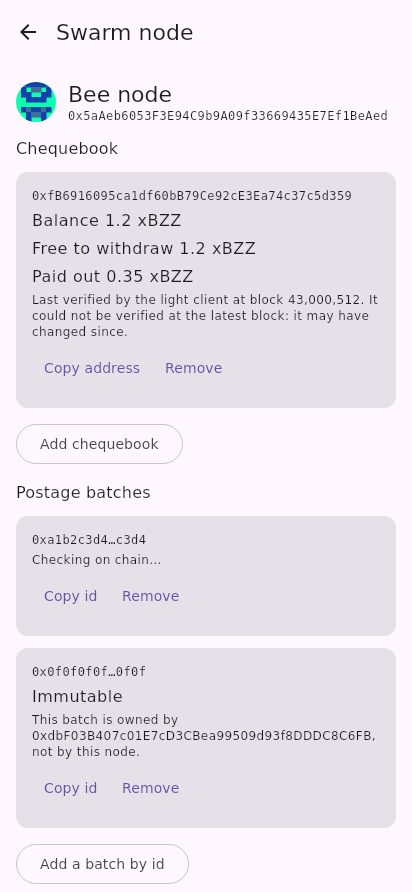
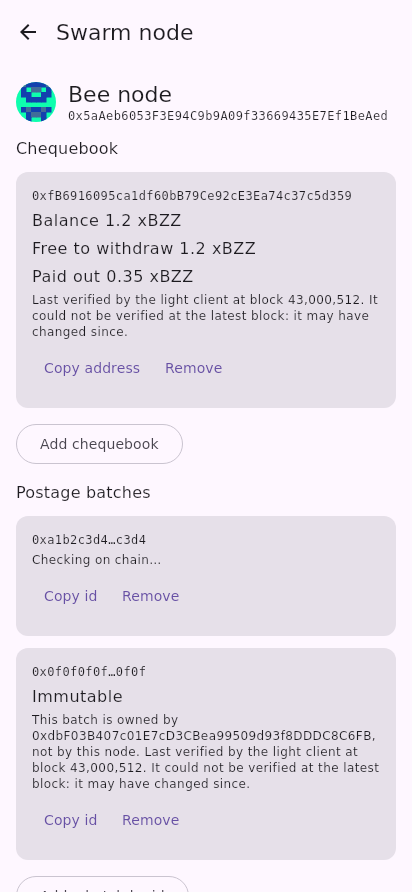
Screenshots: 2 added, 1 changed, 0 removed
Rendered by the Screenshots workflow from ac8f1dcc1cf83951198d37baa8c7cff035d3f47f. Every other screen draws the same pixels.

Renderer: ubuntu26 20261116.202.1, openjdk version "21.0.13" 2026-10-20 LTS

Changed region(s): [[0.0583, 0.8173, 0.7573, 1.0], [0.7573, 0.8173, 0.9029, 0.8778]]

diff --git a/docs/screenshots/index.html b/docs/screenshots/index.html
@@ -1027,7 +1027,7 @@ figcaption { font: .75rem/1.3 monospace; text-align: center; word-break: break-w
 </div>
 </section>
 <section id="swarm">
-<h2>Swarm node <small>swarm/ · 10 states</small></h2>
+<h2>Swarm node <small>swarm/ · 12 states</small></h2>
 <div class="shots">
 <figure style="width: 206px"><a href="swarm/node.png"><img src="swarm/node.png" loading="lazy" alt="node"></a><figcaption>node</figcaption></figure>
 <figure style="width: 206px"><a href="swarm/node-dark.png"><img src="swarm/node-dark.png" loading="lazy" alt="node-dark"></a><figcaption>node-dark</figcaption></figure>
@@ -1037,6 +1037,8 @@ figcaption { font: .75rem/1.3 monospace; text-align: center; word-break: break-w
 <figure style="width: 206px"><a href="swarm/add-chequebook.png"><img src="swarm/add-chequebook.png" loading="lazy" alt="add-chequebook"></a><figcaption>add-chequebook</figcaption></figure>
 <figure style="width: 206px"><a href="swarm/add-checking.png"><img src="swarm/add-checking.png" loading="lazy" alt="add-checking"></a><figcaption>add-checking</figcaption></figure>
 <figure style="width: 206px"><a href="swarm/add-refused.png"><img src="swarm/add-refused.png" loading="lazy" alt="add-refused"></a><figcaption>add-refused</figcaption></figure>
+<figure style="width: 206px"><a href="swarm/network-off.png"><img src="swarm/network-off.png" loading="lazy" alt="network-off"></a><figcaption>network-off</figcaption></figure>
+<figure style="width: 206px"><a href="swarm/not-removed.png"><img src="swarm/not-removed.png" loading="lazy" alt="not-removed"></a><figcaption>not-removed</figcaption></figure>
 <figure style="width: 206px"><a href="swarm/loading.png"><img src="swarm/loading.png" loading="lazy" alt="loading"></a><figcaption>loading</figcaption></figure>
 <figure style="width: 206px"><a href="swarm/unavailable.png"><img src="swarm/unavailable.png" loading="lazy" alt="unavailable"></a><figcaption>unavailable</figcaption></figure>
 </div>

diff --git a/docs/screenshots/README.md b/docs/screenshots/README.md
@@ -63,7 +63,7 @@ If the folder grows too much, there are two levers, both the owner's. Deleting t
 | [Transfer status (simple mode)](#simple-transfer-status) | `simple-transfer-status/` | 13 |
 | [Watch address (simple mode)](#simple-watch) | `simple-watch/` | 9 |
 | [Swap](#swap) | `swap/` | 38 |
-| [Swarm node](#swarm) | `swarm/` | 10 |
+| [Swarm node](#swarm) | `swarm/` | 12 |
 | [Tokens](#tokens) | `tokens/` | 7 |
 | [Transfer status](#transfer-status) | `transfer-status/` | 37 |
 | [Update required](#update-required) | `update-required/` | 2 |
@@ -1131,7 +1131,7 @@ If the folder grows too much, there are two levers, both the owner's. Deleting t
 <a name="swarm"></a>
 ## Swarm node
 
-`swarm/`, 10 states: `node`, `node-dark`, `empty`, `bounced-expired`, `held`, `add-chequebook`, `add-checking`, `add-refused`, `loading`, `unavailable`
+`swarm/`, 12 states: `node`, `node-dark`, `empty`, `bounced-expired`, `held`, `add-chequebook`, `add-checking`, `add-refused`, `network-off`, `not-removed`, `loading`, `unavailable`
 
 <a href="swarm/node.png"><img src="swarm/node.png" width="206" alt="node"></a>
 <a href="swarm/node-dark.png"><img src="swarm/node-dark.png" width="206" alt="node-dark"></a>
@@ -1141,6 +1141,8 @@ If the folder grows too much, there are two levers, both the owner's. Deleting t
 <a href="swarm/add-chequebook.png"><img src="swarm/add-chequebook.png" width="206" alt="add-chequebook"></a>
 <a href="swarm/add-checking.png"><img src="swarm/add-checking.png" width="206" alt="add-checking"></a>
 <a href="swarm/add-refused.png"><img src="swarm/add-refused.png" width="206" alt="add-refused"></a>
+<a href="swarm/network-off.png"><img src="swarm/network-off.png" width="206" alt="network-off"></a>
+<a href="swarm/not-removed.png"><img src="swarm/not-removed.png" width="206" alt="not-removed"></a>
 <a href="swarm/loading.png"><img src="swarm/loading.png" width="206" alt="loading"></a>
 <a href="swarm/unavailable.png"><img src="swarm/unavailable.png" width="206" alt="unavailable"></a>
 
